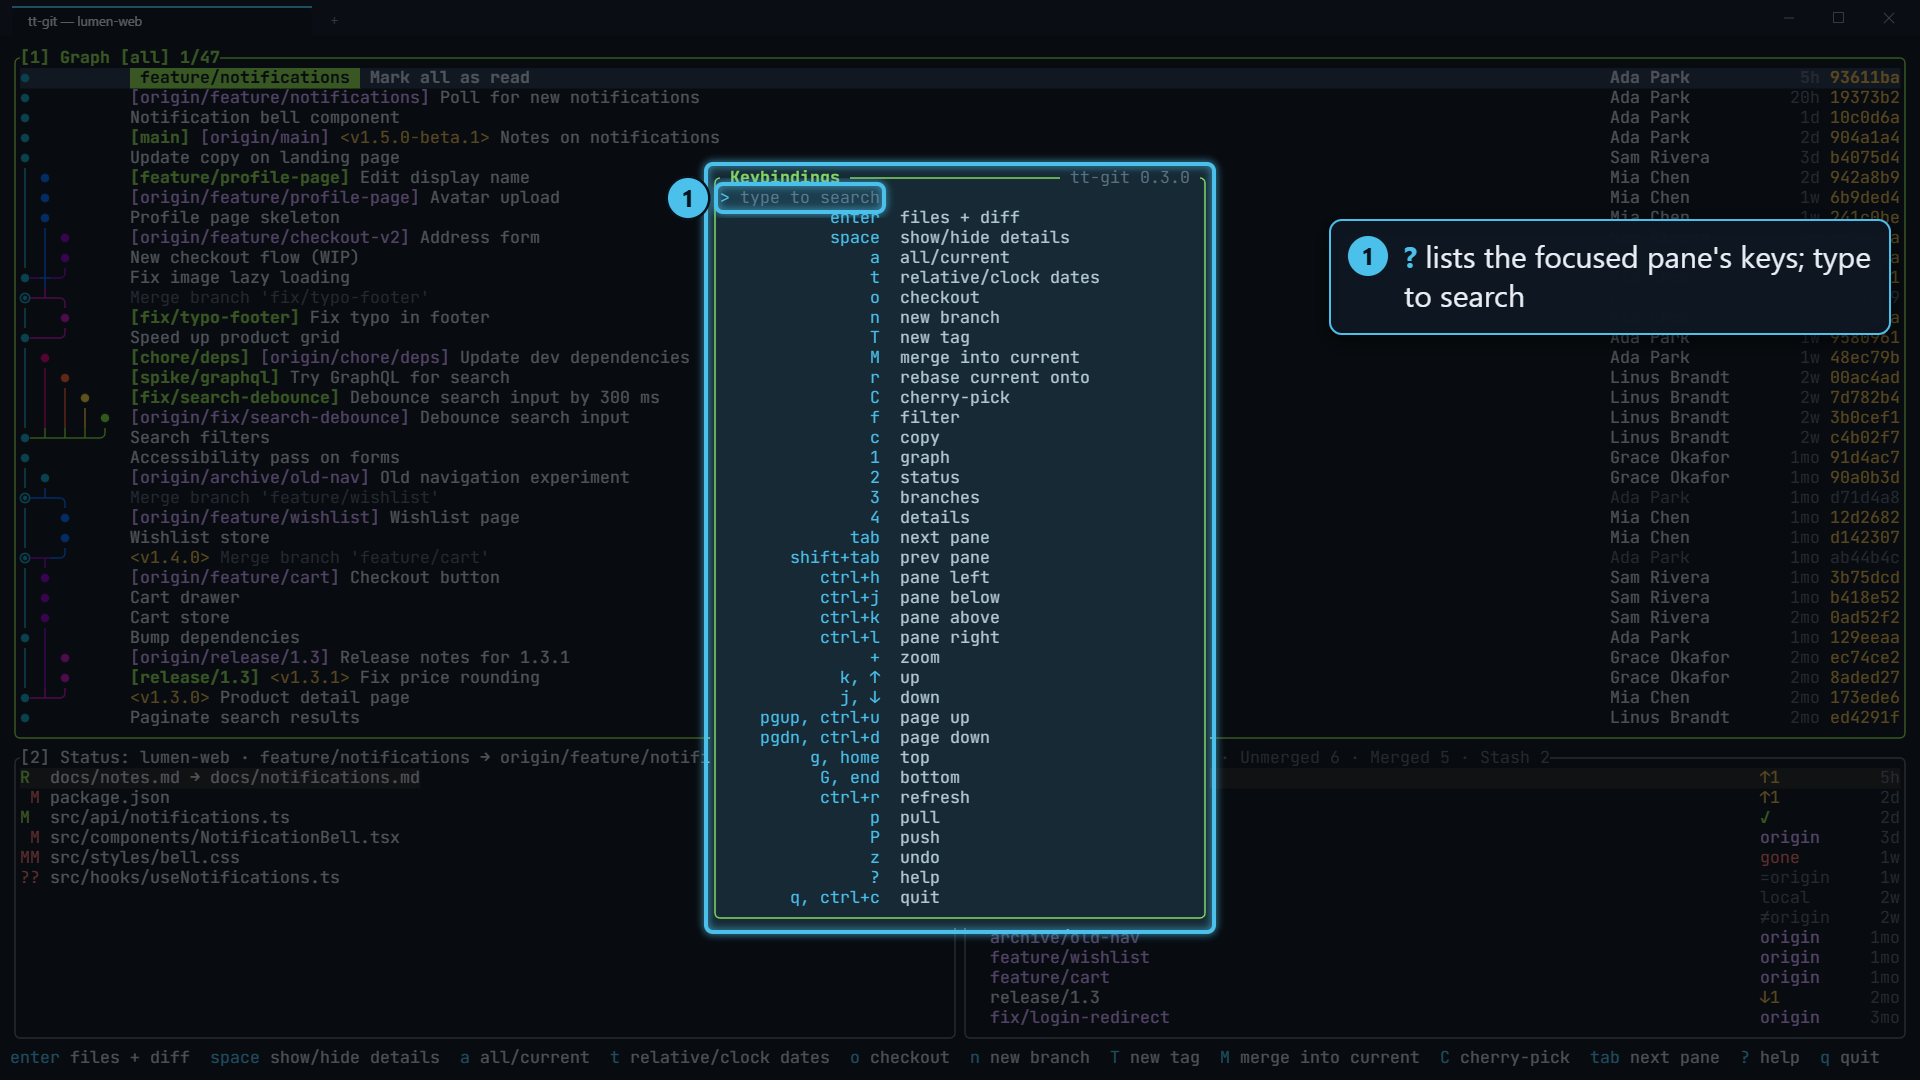
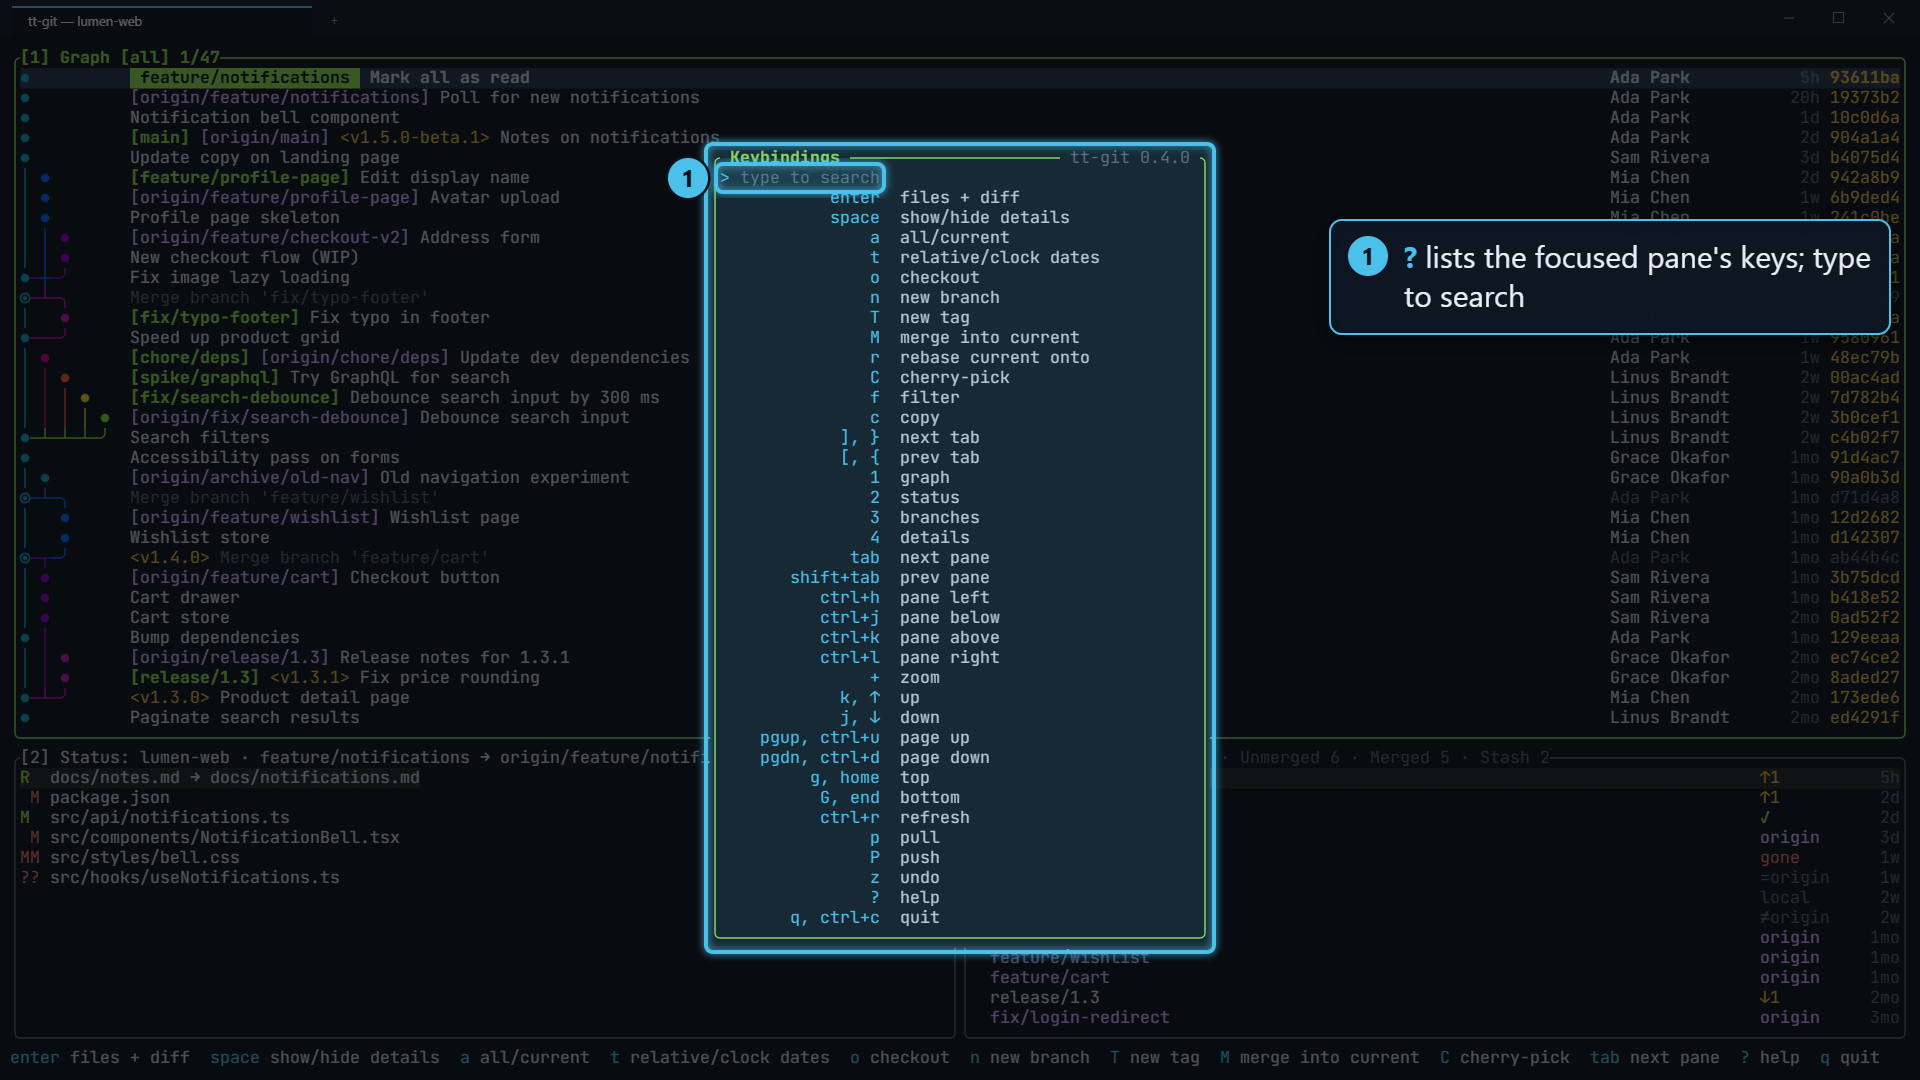
docs(graph): Describe stepping the branch tabs from the graph

Changed region(s): [[0.3438, 0.1222, 0.6562, 0.8861], [0.5, 0.6722, 0.5312, 0.7028]]

diff --git a/docs/configuration.md b/docs/configuration.md
@@ -199,6 +199,7 @@ Write keys as `q`, `Q`, `shift+q`, `ctrl+c`, `alt+enter`, `shift+tab`,
 | `checkout`, `new_branch`, `new_tag`, `delete_branch`, `rename_branch`, `fetch`, `filter`, `merge`, `rebase` | `enter`/`space`, `n`, `T`, `d`, `R`, `f`, `/`, `M`, `r` | branches |
 | `push_tag` | `P` (on the Tags tab; pushes the branch on the others) | branches |
 | `next_tab`, `prev_tab`, `pick_base` | `]` `}`, `[` `{`, `b` | branches |
+| `next_tab`, `prev_tab` | `]` `}`, `[` `{` (steps the branches pane's tabs) | graph |
 | `stage_toggle`, `open_staging`, `stage_all`, `discard`, `commit`, `amend`, `stash`, `continue`, `abort` | `space`, `enter`, `a`, `d`, `c`, `A`, `s`, `C`, `X` | status |
 | `stash_pop`, `stash_apply`, `stash_drop`, `new_branch`, `expand_details`, `next_tab`, `prev_tab`, `filter` | `space`, `a`, `d`, `n`, `enter`, `]` `}`, `[` `{`, `/` | stash |
 | `open_worktree`, `remove_worktree`, `new_branch`, `copy`, `next_tab`, `prev_tab`, `filter` | `enter`/`space`, `d`, `n`, `c`, `]` `}`, `[` `{`, `/` | worktrees |

diff --git a/README.md b/README.md
@@ -112,6 +112,7 @@ command palette, which lists built-in commands and plugin actions.
 | | `T` | new tag at the selected commit (`tab` in the dialog: annotated, with a message) |
 | | `M` / `r` / `C` | merge into current / rebase current onto / cherry-pick |
 | | `c` | copy the commit hash |
+| | `]` `[` (or `}` `{`) | next / previous tab in the branches pane, without leaving the graph |
 | branches | `enter` `space` | check out (remote-only branches get a tracking branch) |
 | | `n` `d` `R` | new (`tab` in the dialog: create it in a worktree under `.worktrees/`) / delete (asks before force-deleting unmerged) / rename |
 | | `T` | new tag at the selected branch or tag (`tab` in the dialog: annotated) |
